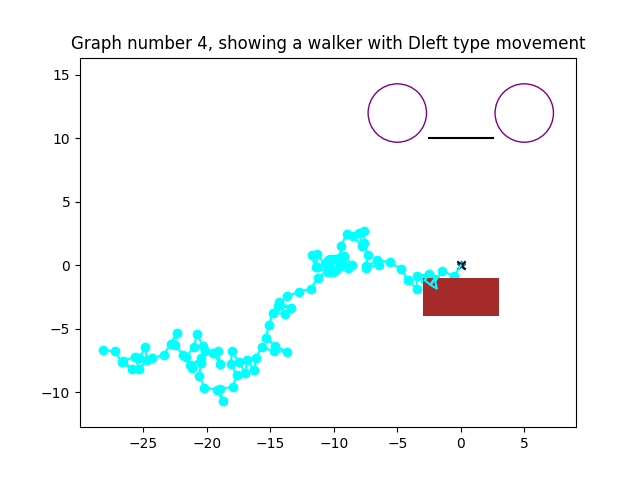
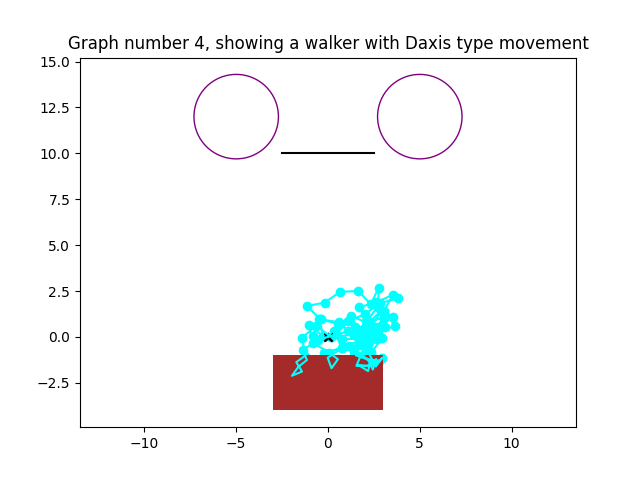
angle_outer

diff --git a/Code/walker.py b/Code/walker.py
@@ -95,17 +95,12 @@ class Walker:
                     self.__location[1] + int(math.sin(angle)))
 
         if self.__movement[0] == 'D':
-            angle = random.gauss(0, PI / 2)
+            angle = random.gauss(0, PI * 2 / 3)
             inclination = self.__movement[1:]
             if inclination in DIRECTIONS:
                 angle += DIRECTIONS[inclination]
             elif inclination == "axis":
-                if self.__location[0] > 0:
-                    angle += math.tanh(self.__location[1] / self.__location[0]) + PI
-                elif self.__location[0] < 0:
-                    angle += math.tanh(self.__location[1] / self.__location[0])
-                else:
-                    angle -= math.copysign(PI, self.__location[1])
+                angle += self.directional_angle()
             else:
                 raise AttributeError("Somewhere the second part of inclination changed")
             return (self.__location[0] + math.cos(angle),
@@ -113,6 +108,18 @@ class Walker:
 
         return None
 
+    def directional_angle(self, coordinate: Coordinates = (0,0)):
+        """
+        a function to get the angle from a walker to a given coordinate
+        :param coordianate: the given coordinate
+        """
+        x_offset = self.location[0] - coordinate[0]
+        y_offset = self.location[1] - coordinate[1]
+        if x_offset > 0:
+            return math.tanh(y_offset / x_offset) + PI
+        if x_offset < 0:
+            return math.tanh(y_offset / x_offset)
+        return - math.copysign(PI, y_offset)
     def move(self) -> bool:
         """
         Moves the walker one step in it's own way.

diff --git a/Code/main.py b/Code/main.py
@@ -23,17 +23,17 @@ if __name__ == "__main__":
 
 
 
-if __name__ == "__not__":
+if __name__ == "__n__":
     simulation = Simulation()
     letters = ('Dup','Dright','Ddown','Dleft','Daxis')
     colors = "GCYR"
     for i in range(5):
-        simulation.add_walker(Walker(letters[i], color= colors[1]))
+        simulation.add_walker(Walker(letters[4], color= colors[1]))
     simulation.add_barrier(Barrier((0,10), 5, 0))
     simulation.add_portal(Portal((5,12),2.3))
     simulation.add_portal(Portal((-5,12),2.3))
     simulation.add_mud(Mud((-3,-4),6,3))
 
     simulation.plot_simulation(100)
-    #simulation.simulation_average(5,500,10**5,"results.json")
+    simulation.simulation_average(5,500,10**5,"results.json")
     print("Done")

diff --git a/Code/walker_gui.py b/Code/walker_gui.py
@@ -400,7 +400,7 @@ data for different number of iterations)")
                                                  "width": mudspot["Width"].get(),
                                                  "height": mudspot["Height"].get()})
 
-        path = f"{self.__simulation_path["Directory"].get()}/{self.__simulation_path["Filename"].get()}"
+        path = f"{self.__simulation_path['Directory'].get()}/{self.__simulation_path['Filename'].get()}"
         simulation_data["Simulation"] =\
             {key: self.__simulation_data[key].get() for key in self.__simulation_data}
         simulation_data["Simulation"]["file_name"] = path
